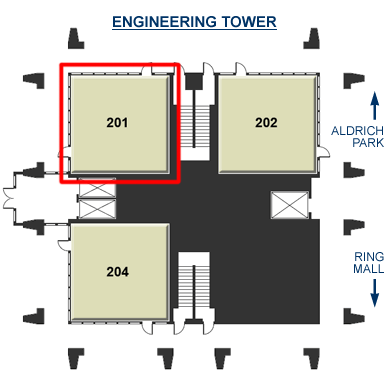
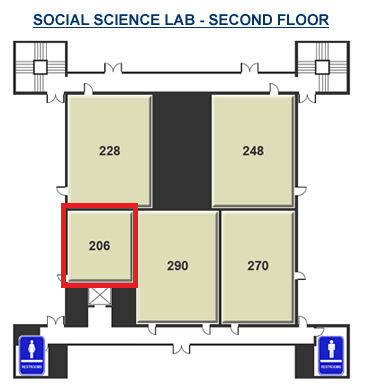
Fixed meeting times & revised officer page

diff --git a/officers/index.html b/officers/index.html
@@ -28,35 +28,7 @@
       <p>Meet your fellow officers in charge of the club!</p>
     </div>
 
-    <div class="showcase" id="max">
-      <table>
-	<tr>
-	  <td>
-	    <img src="max.png"/>
-	  </td>
-	  <td>
-	    <p>Max "osuuci dot com" Chung</p>
-	    <p>4th year, Computer Game Science</p>
-	    <p>(Nov. 2014 - Present)</p>
-	    <a href="https://www.facebook.com/maxrchung" class="button"><img alt="Facebook" title="Facebook" src="http://osuuci.github.io/resources/iconFacebook.png"/></a>
-	    <a href="mailto:maxrchung@gmail.com" class="button"><img alt="Email" title="Email" src="http://osuuci.github.io/resources/iconGMail.png"/></a>
-	    <a href="https://osu.ppy.sh/u/1472763" class="button"><img alt="osu!" title="osu!" src="http://osuuci.github.io/resources/iconOsu.png"/></a>
-	    <a href="http://maxrchung.com" class="button"><img alt="Website" title="Website" src="http://osuuci.github.io/resources/iconMax.png"/></a>
-	  </td>
-	</tr>
-      </table>
-    </div>
-
-    <div class="mid">
-      <p>What's up everyone. I'm Wax Chug da Gwad. Some of you guys may know me as Max Chung. I started playing osu! 3 years ago, but have only been playing it on-and-off as a side game, with months of break in between. It wasn't until last fall quarter that Justin, Brad, and I randomly met up and found out we all played osu!.</p>
-
-      <p>Thinking it was a good chance for me to get more serious about the game, meet new people, and try something new, I took the lead in starting up this club and bringing it to where it is now. It's been an absolute blast playing the game with everyone so far, and I hope we grow in numbers and do greater things in the future!</p>
-
-      <p>Outside of osu!, I'm an active officer and developer of the <a href="http://vgdc-uci.com/">Video Game Development Club at UCI</a>. I love making games, and it's thanks to VGDC that I've met a ton of awesome people and have the passion I have now. Big shoutouts to them! If you're at all interested in game development, definitely check them out and get involved.</p>
-
-      <p>I watch a fair bit of anime in my free time, not religiously anymore, but still a good chunk here and there, and as a result of anime, osu!, and NicoNico, I listen to a lot of Japanese/anime/vocaloid/utaite music. My favorite animes of all time are <a href="http://myanimelist.net/anime/7785/Yojouhan_Shinwa_Taikei">The Tatami Galaxy</a>, the first 15 minutes of <a href="http://myanimelist.net/anime/6675/Redline">Redline</a>, and the last 15 minutes of <a href="http://myanimelist.net/anime/875/Mind_Game">Mind Game</a>. My favorite vocaloid producer is <a href="http://vocaloid.wikia.com/wiki/Mikito-P">MikitoP</a>, and my favorite song by him is "<a href="https://www.youtube.com/watch?v=HaQl3f4fFWI">Sayoko</a>" by <a href="http://utaite.wikia.com/wiki/Kano">Kano</a>.</p>
-      <p class="signature">-Wax "Max 'Shrackner' Chung" Chug da Gwad</p>
-    </div>
+    
 
     <div class="showcase" id="justin">
       <table>
@@ -160,40 +132,18 @@
     </div>
 
     <div class="mid">
-      <p>Hi all! I'm Aaron, a computer hardware enthusiast, DIY hobbyist, and eSports fan. I started playing osu! about two years ago, and though I have never been musically (rhymically?) inclined, I rather enjoy the game a lot. I suppose this contributes to my not being able to hold a combo for my life. Oh, and did I mention I'm one of the rare mouse players? Mouse players unite!</p>
+      <p>Hi all! I'm Aaron, a computer hardware enthusiast, DIY hobbyist, and eSports fan. I started playing osu! since 2013 and though I have never been musically (rhymically?) inclined, I rather enjoy the game a lot. </p>
 
-      <p>Speaking of hardware and DIY, I made a two-key keypad for osu! called "two-K." It was a project that started in April 2015 and involved 3D modelling using SolidWorks, 3D printing, and soldering.</p>
+      <p>Speaking of hardware and DIY, I made a two-key keypad for osu! called "two-K." It was a project that started in April 2015 and involved 3D modelling using SolidWorks, 3D printing, and soldering. Now peppy has his own osu! branded "nono" keypads, so unfortunately he's outcompeted me. They're still up for sale by the way! Contact me via Facebook or email if you may be interested.</p>
 
-      <p>In the rare occasions when I'm not browsing reddit or watching YouTube videos, I like to play racquetball or build computers for people. Hit me up if you're interested in either of those things :D</p>
+      <p>I am also a tournament organizer for the osu! and StarCraft II divisions of the High School Starleague [<a href="http://hsstarleague.com">Link</a>], an organization that runs year-long esports leagues and gives out scholarships to the top placers.</p>
+      
+      <p>In the rare occasions when I'm not browsing reddit or watching YouTube, I like to play racquetball or build computers for people. Hit me up if you're interested in either of those things :D</p>
+      
       <p class="signature">-Aaron Liao</p>
     </div>
 
-    <div class="showcase" id="victor">
-      <table>
-	<tr>
-	  <td>
-	    <img src="victor.jpg"/>
-	  </td>
-	  <td>
-	    <p>Victor "lalipo" Stolle</p>
-	    <p>4th year, Software Engineering</p>
-	    <p>(Apr. 2015 - Present)</p>
-	    <a href="https://www.facebook.com/victor.stolle?fref=ufi" class="button"><img alt="Facebook" title="Facebook" src="http://osuuci.github.io/resources/iconFacebook.png"/></a>
-	    <a href="mailto:vstolle@uci.edu" class="button"><img alt="Email" title="Email" src="http://osuuci.github.io/resources/iconGMail.png"/></a>
-            <a href="https://osu.ppy.sh/u/lalipo" class="button"><img alt=" osu!" title="osu!" src="http://osuuci.github.io/resources/iconOsu.png" /></a>
-	  </td>
-	</tr>
-      </table>
-    </div>
 
-    <div class="mid">
-      <p>Hello there! My name is Victor Stolle, and I am a 3rd year Software Engineering student. I started playing osu! 3 years ago when Max introduced this difficult rhythm game in between queues of League of Legends.</p>
-
-      <p>In osu! my average song difficulty is between 3-4 stars, and I play with the traditional mouse + keyboard setup. My favorite genres of music in the game are fast-paced, high BPM songs belonging to either electronic or rock.</p>
-
-      <p>Other than osu! I am a somewhat-active member of the Video Game Design Club, a member of the intramural water polo team, and a video game enthusiast. I play a lot of League of Legends and Diablo 3, and my favourite strategy game is Age of Empires 3. I also watch "a little bit" of anime every now and then, and listen to all genres of music.</p>
-      <p class="signature">-Victor Stolle</p>
-    </div>
 
     <div class="showcase" id="royce">
       <table>
@@ -217,6 +167,72 @@
       <p>Hi, I'm Royce Sato, a third year chemical engineering student. I started playing osu! around Fall 2013, and I haven't improved since then. I play mouse+keyboard; I used to play tablet, but my hand couldn't take the heat, so I stick with mouse. I don't DT farm. I also play mania 4k, it's really fun and everyone should quit standard and play mania. Other hobbies include playing the piano, yo-yoing, which Jimmy and Justin got me into, and speedcubing. I'm also eternally “studying” Japanese.</p>
       <p class="signature">-Royce Sato</p>
     </div>
+    
+    <div class="mid">
+      <h2>Past Officers</h2>
+      <p></p>
+    </div>
+    
+    <div class="showcase" id="max">
+      <table>
+	<tr>
+	  <td>
+	    <img src="max.png"/>
+	  </td>
+	  <td>
+	    <p>Max "osuuci dot com" Chung</p>
+	    <p>4th year, Computer Game Science</p>
+	    <p>(Nov. 2014 - Dec. 2015)</p>
+	    <a href="https://www.facebook.com/maxrchung" class="button"><img alt="Facebook" title="Facebook" src="http://osuuci.github.io/resources/iconFacebook.png"/></a>
+	    <a href="mailto:maxrchung@gmail.com" class="button"><img alt="Email" title="Email" src="http://osuuci.github.io/resources/iconGMail.png"/></a>
+	    <a href="https://osu.ppy.sh/u/1472763" class="button"><img alt="osu!" title="osu!" src="http://osuuci.github.io/resources/iconOsu.png"/></a>
+	    <a href="http://maxrchung.com" class="button"><img alt="Website" title="Website" src="http://osuuci.github.io/resources/iconMax.png"/></a>
+	  </td>
+	</tr>
+      </table>
+    </div>
+
+    <div class="mid">
+      <p>What's up everyone. I'm Wax Chug da Gwad. Some of you guys may know me as Max Chung. I started playing osu! 3 years ago, but have only been playing it on-and-off as a side game, with months of break in between. It wasn't until last fall quarter that Justin, Brad, and I randomly met up and found out we all played osu!.</p>
+
+      <p>Thinking it was a good chance for me to get more serious about the game, meet new people, and try something new, I took the lead in starting up this club and bringing it to where it is now. It's been an absolute blast playing the game with everyone so far, and I hope we grow in numbers and do greater things in the future!</p>
+
+      <p>Outside of osu!, I'm an active officer and developer of the <a href="http://vgdc-uci.com/">Video Game Development Club at UCI</a>. I love making games, and it's thanks to VGDC that I've met a ton of awesome people and have the passion I have now. Big shoutouts to them! If you're at all interested in game development, definitely check them out and get involved.</p>
+
+      <p>I watch a fair bit of anime in my free time, not religiously anymore, but still a good chunk here and there, and as a result of anime, osu!, and NicoNico, I listen to a lot of Japanese/anime/vocaloid/utaite music. My favorite animes of all time are <a href="http://myanimelist.net/anime/7785/Yojouhan_Shinwa_Taikei">The Tatami Galaxy</a>, the first 15 minutes of <a href="http://myanimelist.net/anime/6675/Redline">Redline</a>, and the last 15 minutes of <a href="http://myanimelist.net/anime/875/Mind_Game">Mind Game</a>. My favorite vocaloid producer is <a href="http://vocaloid.wikia.com/wiki/Mikito-P">MikitoP</a>, and my favorite song by him is "<a href="https://www.youtube.com/watch?v=HaQl3f4fFWI">Sayoko</a>" by <a href="http://utaite.wikia.com/wiki/Kano">Kano</a>.</p>
+      <p class="signature">-Wax "Max 'Shrackner' Chung" Chug da Gwad</p>
+    </div>
+    
+    
+    
+        <div class="showcase" id="victor">
+      <table>
+	<tr>
+	  <td>
+	    <img src="victor.jpg"/>
+	  </td>
+	  <td>
+	    <p>Victor "lalipo" Stolle</p>
+	    <p>4th year, Software Engineering</p>
+	    <p>(Apr. 2015 - Nov. 2015)</p>
+	    <a href="https://www.facebook.com/victor.stolle?fref=ufi" class="button"><img alt="Facebook" title="Facebook" src="http://osuuci.github.io/resources/iconFacebook.png"/></a>
+	    <a href="mailto:vstolle@uci.edu" class="button"><img alt="Email" title="Email" src="http://osuuci.github.io/resources/iconGMail.png"/></a>
+            <a href="https://osu.ppy.sh/u/lalipo" class="button"><img alt=" osu!" title="osu!" src="http://osuuci.github.io/resources/iconOsu.png" /></a>
+	  </td>
+	</tr>
+      </table>
+    </div>
+
+    <div class="mid">
+      <p>Hello there! My name is Victor Stolle, and I am a 3rd year Software Engineering student. I started playing osu! 3 years ago when Max introduced this difficult rhythm game in between queues of League of Legends.</p>
+
+      <p>In osu! my average song difficulty is between 3-4 stars, and I play with the traditional mouse + keyboard setup. My favorite genres of music in the game are fast-paced, high BPM songs belonging to either electronic or rock.</p>
+
+      <p>Other than osu! I am a somewhat-active member of the Video Game Design Club, a member of the intramural water polo team, and a video game enthusiast. I play a lot of League of Legends and Diablo 3, and my favourite strategy game is Age of Empires 3. I also watch "a little bit" of anime every now and then, and listen to all genres of music.</p>
+      <p class="signature">-Victor Stolle</p>
+    </div>
+    
+    
     
 </div>
 </body>

diff --git a/about/index.html b/about/index.html
@@ -28,7 +28,7 @@
       <img class="widthConstrain" src="groupPhoto.jpg"/>
       <p class="caption">Meet the cult!</p>
       <h2>Meetings</h2>
-      <p>Our in-person meetings for this fall quarter will be at 6PM on Fridays. Find us at Engineering Tower 201 (ET 201). It's a room on the outside perimeter of the building, so just circle around the sides until you find it.</p>
+      <p>Our in-person meetings for winter quarter 2016 will be at 6PM on Fridays. Find us at Social Science Lab (SSL 206). It's a room on the outside perimeter of the building, so just circle around the sides until you find it.</p>
 
       <img src="http://osuuci.github.io/about/meeting.png"/>
       
